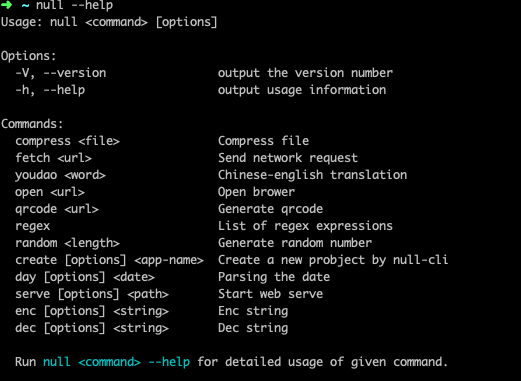
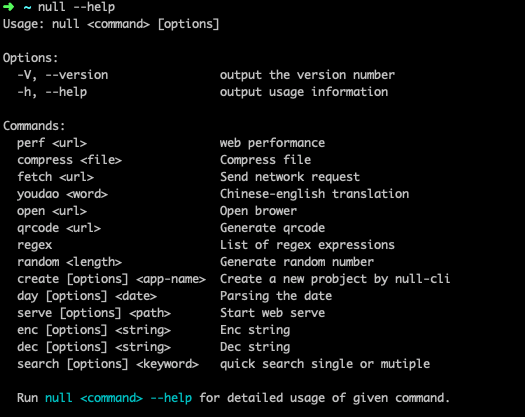
feat: performance lib

diff --git a/lib/performance/index.js b/lib/performance/index.js
@@ -1,12 +1,20 @@
+const ora = require('ora');
+const { parse } = require('url');
 const puppeteer = require('puppeteer');
 
 async function performance(url) {
+  const spinner = ora('Loading Info ...');
+  spinner.start();
+  const { protocol } = parse(url);
+  const website = protocol ? url : `http://${url}`;
   const browser = await puppeteer.launch();
   const page = await browser.newPage();
-  await page.goto(url);
+  await page.goto(website);
   const performanceTiming = JSON.parse(
     await page.evaluate(() => JSON.stringify(window.performance.timing)),
   );
+  await browser.close();
+  spinner.stop();
   const {
     loadEventEnd,
     navigationStart,
@@ -35,9 +43,14 @@ async function performance(url) {
   const domReadyTime = domContentLoadedEventEnd - navigationStart;
   // 页面加载总耗时
   const pageLoadTime = loadEventEnd - navigationStart;
-  console.log(dnsLookupTime, tcpConnectTime, downloadTime, whiteScreenTime);
-  console.log('DOM解析耗时', parseDomTime);
-  console.log('DOM Ready 耗时', domReadyTime);
-  console.log('页面加载总耗时', pageLoadTime);
+  console.log({
+    DNS查询耗时: `${dnsLookupTime}ms`,
+    TCP连接耗时: `${tcpConnectTime}ms`,
+    页面请求耗时: `${downloadTime}ms`,
+    白屏耗时: `${whiteScreenTime}ms`,
+    DOM解析耗时: `${parseDomTime}ms`,
+    DOMReady耗时: `${domReadyTime}ms`,
+    页面加载总耗时: `${pageLoadTime}ms`,
+  });
 }
 module.exports = performance;

diff --git a/lib/youdao/parser.js b/lib/youdao/parser.js
@@ -1,14 +1,14 @@
 const cheerio = require('cheerio');
 
 const parser = {};
-parser.parse = function (isChinese, body) {
+parser.parse = function(isChinese, body) {
   const $ = cheerio.load(body);
   let result = '';
   let sentenceSample = '';
   if (isChinese) {
     $('div.trans-container > ul')
       .find('p.wordGroup')
-      .each(function () {
+      .each(function() {
         result += $(this)
           .text()
           .replace(/\s+/g, ' ');
@@ -16,14 +16,14 @@ parser.parse = function (isChinese, body) {
   } else {
     $('div#phrsListTab > div.trans-container > ul')
       .find('li')
-      .each(function () {
+      .each(function() {
         result += `${$(this)
           .text()
           .replace(/\s+/g, ' ')}\n`;
       });
     $('#bilingual ul li')
       .find('p')
-      .each(function () {
+      .each(function() {
         if ($(this).attr('class') !== 'example-via') {
           sentenceSample += `${$(this)
             .text()
@@ -38,7 +38,8 @@ parser.parse = function (isChinese, body) {
   }
   // phrase or sentence
   if (result === '') {
-    result =      $('div#webPhrase > p.wordGroup').text() !== ''
+    result =
+      $('div#webPhrase > p.wordGroup').text() !== ''
         ? $('div#webPhrase > p.wordGroup').text()
         : $('div#fanyiToggle > div.trans-container > p:nth-child(2)').text();
   }

diff --git a/.eslintrc.js b/.eslintrc.js
@@ -1,28 +1,13 @@
 module.exports = {
-  extends: ['airbnb-base'],
+  extends: ['plugin:prettier/recommended'],
   globals: {
     name: 'off',
   },
+  plugins: ['prettier'],
+  parserOptions: {
+    ecmaVersion: 8,
+  },
   rules: {
-    semi: 0,
-    indent: 0,
-    'no-undef': 0,
-    'import/no-extraneous-dependencies': 0,
-    'no-console': 0,
-    'global-require': 0,
-    'consistent-return': 0,
-    'func-names': 0,
-    'no-underscore-dangle': 0,
-    'no-param-reassign': 0,
-    'prefer-promise-reject-errors': 0,
-    'no-restricted-syntax': 0,
-    'no-multi-spaces': 0,
-    'arrow-parens': [2, 'as-needed'],
-    'no-unused-expressions': [
-      2,
-      {
-        allowShortCircuit: true,
-      },
-    ],
+    'prettier/prettier': 'error',
   },
 };

diff --git a/lib/search/index.js b/lib/search/index.js
@@ -2,17 +2,19 @@ const open = require('open');
 const sites = require('./sites');
 
 async function search(keyword, options) {
-  const keys = Object.keys(options)
+  const keys = Object.keys(options);
   let froms = keys.length > 0 ? keys : ['default'];
 
   if (keys.includes('all')) {
     froms = Object.keys(sites);
   }
 
-  await Promise.all(froms.map(async from => {
-    const searchUri = `${sites[from]}${keyword}`;
-    await open(searchUri);
-  }))
+  await Promise.all(
+    froms.map(async from => {
+      const searchUri = `${sites[from]}${keyword}`;
+      await open(searchUri);
+    }),
+  );
 }
 
 module.exports = search;

diff --git a/lib/create/verify.js b/lib/create/verify.js
@@ -69,12 +69,12 @@ const verify = {
   },
   invalid(name, { errors, warnings }) {
     console.error(chalk.red(`Invalid project name: "${name}"`));
-    errors
-      && errors.forEach(err => {
+    errors &&
+      errors.forEach(err => {
         console.error(chalk.red.dim(`Error: ${err}`));
       });
-    warnings
-      && warnings.forEach(warn => {
+    warnings &&
+      warnings.forEach(warn => {
         console.error(chalk.red.dim(`Warning: ${warn}`));
       });
     process.exit(1);

diff --git a/lib/dec/index.js b/lib/dec/index.js
@@ -2,7 +2,8 @@ const CryptoJS = require('crypto-js');
 const chalk = require('chalk');
 
 const methods = {
-  base64: base64 => CryptoJS.enc.Base64.parse(base64).toString(CryptoJS.enc.Utf8),
+  base64: base64 =>
+    CryptoJS.enc.Base64.parse(base64).toString(CryptoJS.enc.Utf8),
   hex: hex => CryptoJS.enc.Hex.parse(hex).toString(CryptoJS.enc.Utf8),
   aes: (str, aeskey, aesiv) => {
     const key = CryptoJS.enc.Utf8.parse(aeskey);

diff --git a/docs/.vuepress/config.js b/docs/.vuepress/config.js
@@ -65,6 +65,7 @@ module.exports = {
             'compress',
             'fetch',
             'youdao',
+            'performance',
             'open',
             'qrcode',
             'regex',

diff --git a/docs/guide/performance.md b/docs/guide/performance.md
@@ -1,0 +1,21 @@
+# 性能分析
+
+> 通过 PerformanceTiming API 获取与浏览器性能有关的时间数据,分析 web 前端性能
+
+```shell
+$ null perf <url>
+```
+
+## 性能指标
+
+|      name      |                   value                    |
+| :------------: | :----------------------------------------: |
+|  DNS 查询耗时  |    domainLookupEnd - domainLookupStart     |
+|  TCP 连接耗时  |         connectEnd - connectStart          |
+|  页面请求耗时  |        responseEnd - responseStart         |
+|    白屏耗时    |      responseStart - navigationStart       |
+|  DOM 解析耗时  |        domComplete - domInteractive        |
+| DOM Ready 耗时 | domContentLoadedEventEnd - navigationStart |
+| 页面加载总耗时 |       loadEventEnd - navigationStart       |
+
+![performance](/null-cli/performance.gif)
